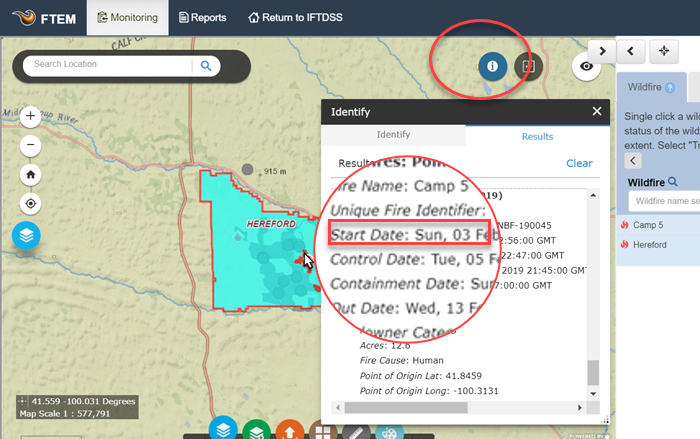
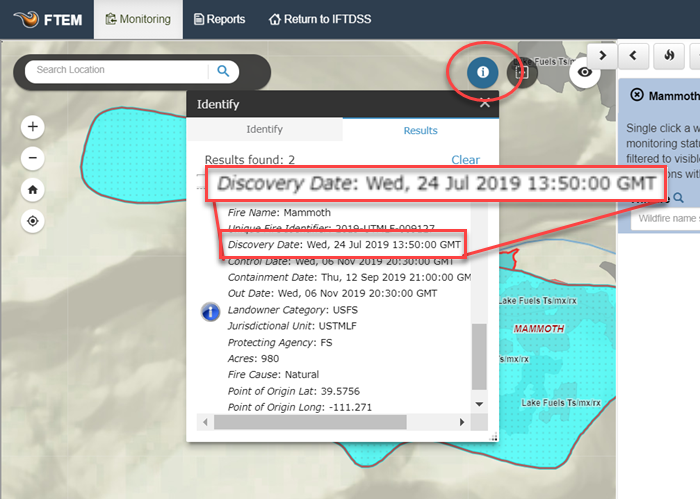
FTEM Updates - Guaranteed 100% Covid-free

diff --git a/Content/30-Tasks/QWRA_EA/ExposureAnalysis/EAConsiderations.htm b/Content/30-Tasks/QWRA_EA/ExposureAnalysis/EAConsiderations.htm
@@ -15,12 +15,14 @@
         <p>Below we outline some general guidelines for assigning HVRAs for a Quantitative Wildfire Risk Assessment  from Scott and others (2013).  However,  every project is different and there is no one-size-fits-all criteria.</p>
         <ul>
             <li><b>Keep the scope limited</b>: When identifying which HVRAs to include in your analysis, it is important to limit the list of HVRAs to those of high value. Keeping the scope limited ensures that the interpretation of the results from your analysis remains manageable. Additionally, the fewer HVRAs that are included in the assessment, the higher their overall contribution to the weighted risk score.</li>
-            <li MadCap:conditions="General.Exclude"><b>Be deliberate in how you organize Sub-HVRAs</b>: The decision regarding how to categorize and organize your HVRAs should be driven by how you want to compare these values.  While Exposure Analysis reports provide results at both the Primary and Sub-HVRA level, the comparisons are based on mean values.  The Primary HVRA should generally represent a category containing multiple Sub-HVRAs that will be looked at together in a management context for decisions.  Users can try a few iterations of organizing their Primary and Sub-HVRAs in HVRA sets and and generating Exposure Analysis Reports for each to determine which organization will best support their evaluation objectives.</li>
-            <li>Needs vary and there are guidance documents available: Primary HVRAs will often include wildland urban interface (WUI), structures, and watersheds, they may also include more ecologically significant values such as vegetation structure or type. There are several guiding documents to assist in the assignment of HVRAs, some of these include:<ul><li>Land and Resource Management Plan or Forest Plan</li><li>Fire Management Plan</li><li>Wildland Fire Response Guidebook or Forest Response Guidebook</li></ul></li>
+            <li><b>Be deliberate in how you organize Sub-HVRAs</b>: The decision regarding how to categorize and organize your HVRAs should be driven by how you want to compare these values. Exposure Analysis reports provide results at both the Primary and Sub-HVRA level. The Primary HVRA should generally represent a category containing multiple Sub-HVRAs that will be looked at together in a management context for decisions. Primary HVRAs will often include wildland urban interface (WUI), structures, and watersheds, they may also include more ecologically significant values such as vegetation structure or type. For instance, Wildlife Habitat can be the Primary HVRA, with Sub-HVRAs identified as individual species or species groups.</li>
+            <li><b>Needs vary and there are guidance documents available</b>: There are several guiding documents to assist in the assignment of HVRAs, some of these include:<ul><li>Land and Resource Management Plan or Forest Plan</li><li>Fire Management Plan</li><li>Wildland Fire Response Guidebook or Forest Response Guidebook</li></ul></li>
             <li>Involve Specialists and Analysts: It is critical to involve resource specialists and geospatial analysts in the process of assigning HVRAs. For a detailed 8 step-process on assigning HVRAs, see page 32 of <a href="../../../41-References/Citations.htm#Scott_etal_2013" target="_blank">Scott and Others 2013</a>.</li>
         </ul>
         <h2>Example: Superior National Forest</h2>
         <p>The Superior National Forest conducted a QWRA as part of their process to develop a Forest-wide fuels treatment strategy. When they assigned HVRAs, the resource or asset’s role or usefulness in driving fire management decision making was the primary criteria:</p>
         <p>“<i>For example, human habitation was chosen as an HVRA because the Forest prioritizes fuel reduction treatments adjacent to areas of human habitation to mitigate the potential threat of wildfire moving to or from privately owned lands. Ecological integrity was identified as an HVRA because depicting the potential for wildfire to restore or maintain ecological integrity may help identify prescribed or managed wildfire opportunities”</i> - Don Helmbrecht 2019</p>
+        <h2>Interpreting Exposure Analysis Reports</h2>
+        <p>Looking to better understand Exposure Analysis reports?&#160;We have a <a href="EAOutputReports.htm" target="_blank">full topic on EA Reports linked here</a>.</p>
     </body>
 </html>

diff --git a/Content/10-FTEM/DataTechnical/Treatments.htm b/Content/10-FTEM/DataTechnical/Treatments.htm
@@ -43,7 +43,7 @@
                 <p>The points within the FTEM Integrated Point and Polygon Fuels Treatment Layers are derived directly from NFPORS and maintain attribution as it exists in that system. No NWCG data standard for fuels treatment points currently exists, although the development of such a standard has been requested. This layer is filtered to remove those points that are already represented by polygons in the FTEM Integrated Fuels Treatment Layers.</p>
                 <p>Inevitably, some duplication of points and or polygons remains due to variance in how records are populated in the system of record. In the case of polygons, duplication most often occurs when fuels treatment work has been done on the same piece of ground multiple times, usually as part of a series of activities considered part of the same treatment.  For example, a thinning, followed by a piling activity, followed by a burning activity, might each be represented by separate, identical polygons.  While steps have been taken to display only the most recent activity in these scenarios in order to reduce duplication, some of the source data are organized in such a way that this is prohibitively difficult. Thus, some duplicates remain in the integrated data. However, this integration is first of its kind. No other cross-agency, integrated polygon and point coverage of completed fuels treatments currently exists.</p>
                 <div class="notificationImportant">
-                    <p>Treatments completed 10 years or more prior to the fire start date are not automatically included in the treatment list. These treatments can be added to the list by increasing your treatment buffer and selecting them from the list of available treatments that appears, or using the Add Treatment feature when viewing that treatment on the map.  </p>
+                    <p>Treatments completed 10 years or more prior to the fire discovery date are not automatically included in the treatment list. These treatments can be added to the list by increasing your treatment buffer and selecting them from the list of available treatments that appears, or using the Add Treatment feature when viewing that treatment on the map.  </p>
                 </div>
                 <div class="notificationImportant">
                     <MadCap:snippetBlock src="../../Resources/Snippets/FTEM/Add_info_to_system.flsnp" />

diff --git a/Content/10-FTEM/DataTechnical/Wildfires.htm b/Content/10-FTEM/DataTechnical/Wildfires.htm
@@ -6,6 +6,9 @@
         <h1>
             <MadCap:keyword term="FTEM" />
             <MadCap:keyword term="Wildfire Data" />FTEM Wildfire Data</h1>
+        <div class="notificationComingSoon">
+            <p> April 2020 - This Topic will be updated in the coming weeks to reflect system changes that now allow active fires to be viewed and monitored in FTEM.</p>
+        </div>
         <p>The Fuels Treatment Effectiveness Monitoring (FTEM) process relies on geospatial datasets to depict wildfire locations from participating NWCG agencies, including four land management Agencies within the Department of Interior (National Park Service, Bureau of Land Management, US Fish and Wildlife Service, and Bureau of Indian Affairs) and the Department of Agriculture (USDA Forest Service). These geospatial datasets consist of both point and polygon features. The FTEM wildfire locations datasets are derived from data stored in:</p>
         <ul>
             <li>The <a href="https://www.forestsandrangelands.gov/WFIT/applications/IRWIN/index.shtml" target="_blank">Integrated Reporting of Wildland Fire Information  <i class="fa fa-external-link" aria-hidden="true"></i></a> (IRWIN) data exchange service. This service provides point locations and fire-related data for fires across the United States.</li>
@@ -41,7 +44,7 @@
                 <ol style="list-style-type: lower-alpha;">
                     <li>Marked as wild fires <span class="code">(incidenttypecategory ='WF'</span>)</li>
                     <li>Have at least one of the three dates not null (control, contain or out date)</li>
-                    <li>In the case control/out/contain are null, fires not modified in the last 45 days (using ModifiedOnDateTime from IRWIN) are pulled and an FTEM&#160;End Date is assigned.</li>
+                    <li MadCap:conditions="General.Exclude">In the case control/out/contain are null, fires not modified in the last 45 days (using ModifiedOnDateTime from IRWIN) are pulled and an FTEM&#160;End Date is assigned.</li>
                 </ol>
                 <p>Once data has been loaded to the FTEM&#160;system:</p>
                 <ol style="list-style-type: lower-alpha;">

diff --git a/Content/20-Models/LBP/RunConsiderations.htm b/Content/20-Models/LBP/RunConsiderations.htm
@@ -88,7 +88,7 @@
         <h2>Using Ignitions from a Completed Run for LBP&#160;Refinement or Comparison</h2>
         <p>Below you can see some reasons to select “Use Ignitions From A completed Run”, these include both model refinement and treatment comparison.</p>
         <ul>
-            <li>LBP model refinement: You may choose to try a variety of inputs on a given landscape in order to determine a set of inputs that either produces outputs best reflect expectations based on your experience, or that best meet the needs of your analysis objectives.  Selecting <span class="UIcomponent">Use Ignitions From a Completed Run</span> and varying one input at a time allows you to directly compare various outputs by ensuring that only the input variable you manually change is influencing the change in model outputs  (For example, doing repeated runs with varying wind speeds at 15, 20, 25 mph, etc.).</li>
+            <li>LBP model refinement: You may choose to try a variety of inputs on a given landscape in order to determine a set of inputs that either produces outputs that best reflect expectations based on your experience, or that best meet the needs of your analysis objectives.  Selecting <span class="UIcomponent">Use Ignitions From a Completed Run</span> and varying one input at a time allows you to directly compare various outputs by ensuring that only the input variable you manually change is influencing the change in model outputs  (For example, doing repeated runs with varying wind speeds at 15, 20, 25 mph, etc.).</li>
             <li>Treatment impact on LBP comparison: Once a landscape has been calibrated, you may want to run the same set of inputs over treated and untreated landscapes to evaluate the impacts of the treatments on model outputs.  Holding the ignitions consistent between these runs ensures that only the selected landscape (with landscape edits reflecting the proposed treatments) is influencing the change in model outputs.</li>
         </ul>
         <h3>Choosing your Ignition Set to Use in Comparison Scenarios</h3>

diff --git a/Content/10-FTEM/General/UsingFtem.htm b/Content/10-FTEM/General/UsingFtem.htm
@@ -9,7 +9,7 @@
         <p>The FTEM interface walks you through the treatment monitoring process. Use the tabs to select a wildfire, select your treatments, enter monitoring data, and review and complete your monitoring. Below, we walk through each stage of this process. The following steps assume you have an FTEM account. If not, visit the <a href="../AccountsRoles/AccountSetup.htm" target="_blank">FTEM&#160;Setup</a> topic for instructions. Upon opening FTEM, you will see wildfires with a split view of <MadCap:variable name="General.MapStudio" /> on the left, and a table view on the right.</p>
         <MadCap:dropDown>
             <MadCap:dropDownHead>
-                <MadCap:dropDownHotspot>FTEM interface controls</MadCap:dropDownHotspot>
+                <MadCap:dropDownHotspot>FTEM Interface Controls</MadCap:dropDownHotspot>
             </MadCap:dropDownHead>
             <p>Each button and tab in the FTEM&#160;interface is labeled below:</p>
             <MadCap:dropDownBody>
@@ -55,7 +55,7 @@
                     <p>Attached files can be viewed, added, or downloaded at anytime if needed (see <a href="Attachments.htm" target="_blank">Attachments</a>). Notice that each wildfire listed is followed by information, left to right, describing the number of acres, control date, monitor status, and the number of interactions.</p>
                 </div>
                 <div class="notificationTip">
-                    <p>Need to <a href="FindingFireInfoFTEM.htm" target="_blank">find a fire start date</a>? That information can be found using the Identify widget, or moving the fire list to show up full screen to show the right hand panel metadata.</p>
+                    <p>Need to <a href="FindingFireInfoFTEM.htm" target="_blank">find a fire discovery date</a>? That information can be found using the Identify widget, or moving the fire list to show up full screen to show the right hand panel metadata.</p>
                 </div>
             </MadCap:dropDownBody>
         </MadCap:dropDown>

diff --git a/Content/10-FTEM/General/FindingFireInfoFTEM.htm b/Content/10-FTEM/General/FindingFireInfoFTEM.htm
@@ -5,6 +5,17 @@
     <body>
         <h1>Finding Fire Information in FTEM</h1>
         <p>Wildfire information, including start date can be viewed either by using the Identify widget, or the right hand panel.</p>
+        <h2>Filter Fires and View Information in the Right Hand Panel</h2>
+        <ol style="list-style-type: upper-alpha;">
+            <li>Use the split screen button to view the fire list in full screen model.</li>
+            <li>Use the filter on the left to selected between All, Not Started, In Progress, Completed, and No Status fires.</li>
+            <li>
+                <p>Clicking on a fire will show fire metadata in the right hand panel.</p>
+                <p>
+                    <img src="../../Resources/Images/FTEM/RHPDetail.png" alt="Right Hand Panel showing fire metadata" class="borderlist" />
+                </p>
+            </li>
+        </ol>
         <h2>Viewing Fire Information with Identify</h2>
         <ol style="list-style-type: upper-alpha;">
             <li>Locate your fire.</li>
@@ -13,16 +24,6 @@
                 <p>Click the fire to display the information.</p>
                 <p>
                     <img src="../../Resources/Images/FTEM/ID Tool.png" class="borderlist" alt="identify tool displaying fire information" />
-                </p>
-            </li>
-        </ol>
-        <h2>Viewing Fire Information in the Right Hand Panel</h2>
-        <ol style="list-style-type: upper-alpha;">
-            <li>Use the split screen button to view the fire list in full screen model.</li>
-            <li>
-                <p>Clicking on a fire will show fire metadata in the right hand panel.</p>
-                <p>
-                    <img src="../../Resources/Images/FTEM/RHPDetail.png" alt="Right Hand Panel showing fire metadata" class="borderlist" />
                 </p>
             </li>
         </ol>

diff --git a/Content/10-FTEM/Reports/RepTreatmentStatus.htm b/Content/10-FTEM/Reports/RepTreatmentStatus.htm
@@ -1,0 +1,34 @@
+<?xml version="1.0" encoding="utf-8"?>
+<html xmlns:MadCap="http://www.madcapsoftware.com/Schemas/MadCap.xsd">
+    <head>
+    </head>
+    <body>
+        <h1>Current Treatment Status Summary</h1>
+        <h2>Report Content</h2>
+        <p>This feature generates a downloadable CSV file for a specific agency, region, unit, and year range. It lists interacting treatments and their current monitoring status (Not Started, In Progress, Complete). Report details include:</p>
+        <ul>
+            <li>Treatment Agency</li>
+            <li>Area/Region</li>
+            <li>Admin Forest Code (if applicable)</li>
+            <li>Treatment Unit</li>
+            <li>Treatment Sub-Unit</li>
+            <li>Treatment ID as listed in FACTS or NFPORS</li>
+            <li>Treatment Status</li>
+            <li>Treatment Name</li>
+            <li>Treatment Completion Acres</li>
+            <li>Treatment Completion Month</li>
+            <li>Treatment Completion Year</li>
+            <li>Treatment Type</li>
+            <li>Wildfire Name</li>
+            <li>Wildfire Discovery Date</li>
+        </ul>
+        <p>
+            <img src="../../Resources/Images/FTEM/reports/treatment_xlsx.png" alt="spread sheet view of treatment status data" class="border" />
+        </p>
+        <h2>Report Download Options</h2>
+        <ul>
+            <li>CSV file</li>
+        </ul>
+        <p>Right click the <a href="../../Resources/pdfs/ReportExamples/excelsheets/TreatmentStatusDataDownload.csv" target="_blank">Data Download example link</a> and select "Save link as" in your browser to save an example to your computer in .csv format.</p>
+    </body>
+</html>

diff --git a/Content/10-FTEM/General/FireFilters.htm b/Content/10-FTEM/General/FireFilters.htm
@@ -73,8 +73,8 @@
         <h2><a name="Add"></a>Add a Missing Fire or Correct Fire Data</h2>
         <h3>Add a Missing Fire</h3>
         <p> Wildfire data is pulled into the FTEM&#160;system nightly from IRWIN and GEOMAC.</p>
-        <p>The most common reason a wildfire is not visible in FTEM&#160;is a lack of Control Date, Containment Date, or Out Date in the system of record.</p>
-        <ol style="list-style-type: upper-alpha;">
+        <p>If you have verified fire activity is visible in the system of record longer than 24 hours and is still not appearing in FTEM, contact your <a href="../Guidance/AgencyLeads.htm" target="_blank">FTEM&#160;Agency Administrator</a> to let them know the fire is not appearing.</p>
+        <ol style="list-style-type: upper-alpha;" MadCap:conditions="General.Exclude">
             <li>If this date remains blank, it is not visible in FTEM&#160;until 45 days after the start date.</li>
             <li>For those familiar with WFDSS who have the proper permissions, they could update those date fields, and the wildfire would be pulled into FTEM the following day.</li>
             <li>Alternatively, an FTEM user could contact their <a href="../Guidance/AgencyLeads.htm" target="_blank">FTEM&#160;Agency Administrator</a> to let them know the fire is not appearing, and to check for this issue in the system of record.</li>

diff --git a/Content/Home.htm b/Content/Home.htm
@@ -129,10 +129,10 @@
             <div class="home-section">
                 <h1 style="color:#293B49;">Latest Updates</h1>
                 <ul>
+                    <li><b>April 2020</b> - Several FTEM help topics have been updated as active fires can now be viewed and monitored in FTEM. A notice has been added to the FTEM&#160;Wildfire Data topic indicating that topic is still in the process of review and updating.</li>
                     <li><b>March 2020</b> - New section on <a href="30-Tasks/QWRA_EA/ExposureAnalysis/Overview.htm" target="_blank">Exposure Analysis</a>, under the Strategic Planning section of the Cycle pages.</li>
                     <li><b>January 2020</b> - New content has been added to support <a href="20-Landscapes/LANDFIREv2016.htm" target="_blank">LANDFIRE&#160;2016 Remap landscapes</a>.</li>
                     <li><b>Monday 23 December</b> - Landscape Help Center Topics have been made easier to find by giving them their own heading in the left table of contents panel.</li>
-                    <li><b>Thursday 10 October</b> - Help Center was updated , adding details to Landscape Fire Behavior Output topics.</li>
                 </ul>
             </div>
         </div>

diff --git a/Content/10-FTEM/FAQs.htm b/Content/10-FTEM/FAQs.htm
@@ -124,7 +124,7 @@
                 <MadCap:dropDownHotspot>What if treatments are loaded into FTEM after I've started monitoring a wildfire?</MadCap:dropDownHotspot>
             </MadCap:dropDownHead>
             <MadCap:dropDownBody>
-                <p>The new treatments will be available once in FTEM for users to add manually but the auto detect system will not pick them up once a fire has had monitoring started on it. So if you are missing treatments or think they have been updated in the system, you must select them on the map and add them from their or choose the add treatments button in the treatments tab to add them. We can wordsmith later.</p>
+                <p>The new treatments will be available once in FTEM for users to add manually but the auto detect system will not pick them up once a fire has had monitoring started on it. So if you are missing treatments or think they have been updated in the system, you must select them on the map and add them from there or choose the add treatments button in the treatments tab to add them.</p>
             </MadCap:dropDownBody>
         </MadCap:dropDown>
         <MadCap:dropDown>

diff --git a/Content/10-FTEM/Reports/FTEMReporting.htm b/Content/10-FTEM/Reports/FTEMReporting.htm
@@ -4,11 +4,6 @@
     </head>
     <body>
         <h1>FTEM Reporting</h1>
-        <div class="notificationImportant">
-            <p>
-                <MadCap:snippetText src="../../Resources/Snippets/FTEM/reports_only_completed.flsnp" />
-            </p>
-        </div>
         <p>FTEM reports compile and summarize monitoring data for completed Wildfires for specific dates, regions and agencies. Report types include:</p>
         <ul>
             <li><a href="WildfireReport.htm" target="_blank">FTEM&#160;Wildfire&#160;Report</a>
@@ -18,6 +13,10 @@
             <li><a href="RepRegionSmry.htm" target="_blank">FTEM&#160;Region Summary</a>
             </li>
             <li><a href="RepStateSmry.htm" target="_blank">FTEM&#160;State Summary</a>
+            </li>
+            <li><a href="RepWildfireStatus.htm" target="_blank">Current Wildfire Status Summary</a>
+            </li>
+            <li><a href="RepTreatmentStatus.htm" target="_blank">Current Treatment Status Summary</a>
             </li>
             <li><a href="RepData.htm" target="_blank">Completed Wildfire Monitoring Data</a>
             </li>

diff --git a/Content/10-FTEM/Reports/RepWildfireStatus.htm b/Content/10-FTEM/Reports/RepWildfireStatus.htm
@@ -1,0 +1,18 @@
+<?xml version="1.0" encoding="utf-8"?>
+<html xmlns:MadCap="http://www.madcapsoftware.com/Schemas/MadCap.xsd">
+    <head>
+    </head>
+    <body>
+        <h1>Current Wildfire Status Summary</h1>
+        <h2>Report Content</h2>
+        <p>This summary is generated for wildfires across every monitoring status, and displays data by year and individual agency.</p>
+        <p>
+            <img src="../../Resources/Images/FTEM/reports/wildfire_status_report.png" alt="wildfire status report with download button visible in the top right." class="border" />
+        </p>
+        <h2>Report Download Options</h2>
+        <ul>
+            <li>Excel file</li>
+        </ul>
+        <p>Right click the <a href="../../Resources/pdfs/ReportExamples/excelsheets/FTEMWildfireSummary_040820.xlsx" target="_blank">Data Download example link</a> and select "Save link as" in your browser to save an example to your computer in .xlsx format.</p>
+    </body>
+</html>
